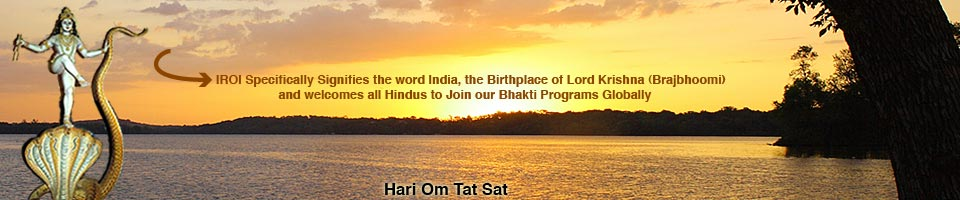
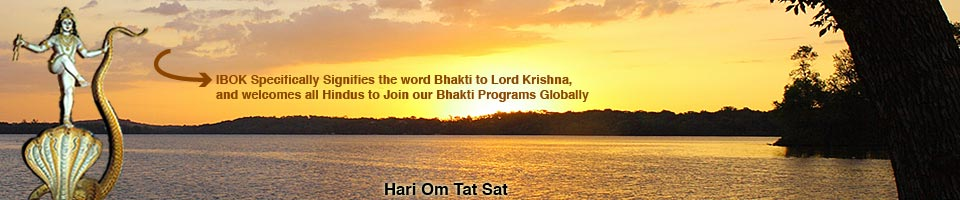
updating site

Changed region(s): [[0.2188, 0.36, 0.7812, 0.51]]

diff --git a/index.html b/index.html
@@ -18,7 +18,7 @@ jQuery.extend(Drupal.settings, { "basePath": "/" });
 <div id="page">
 <div id="header">
 <div id="headerInner">
-<h1><a href="index.html" title="Home">International Religious Organization of India</a></h1> </div>
+<h1><a href="index.html" title="Home">International Bhakti Organization of Krishna</a></h1> </div>
 </div>
 <div class="nav">
 <div class="l"></div>
